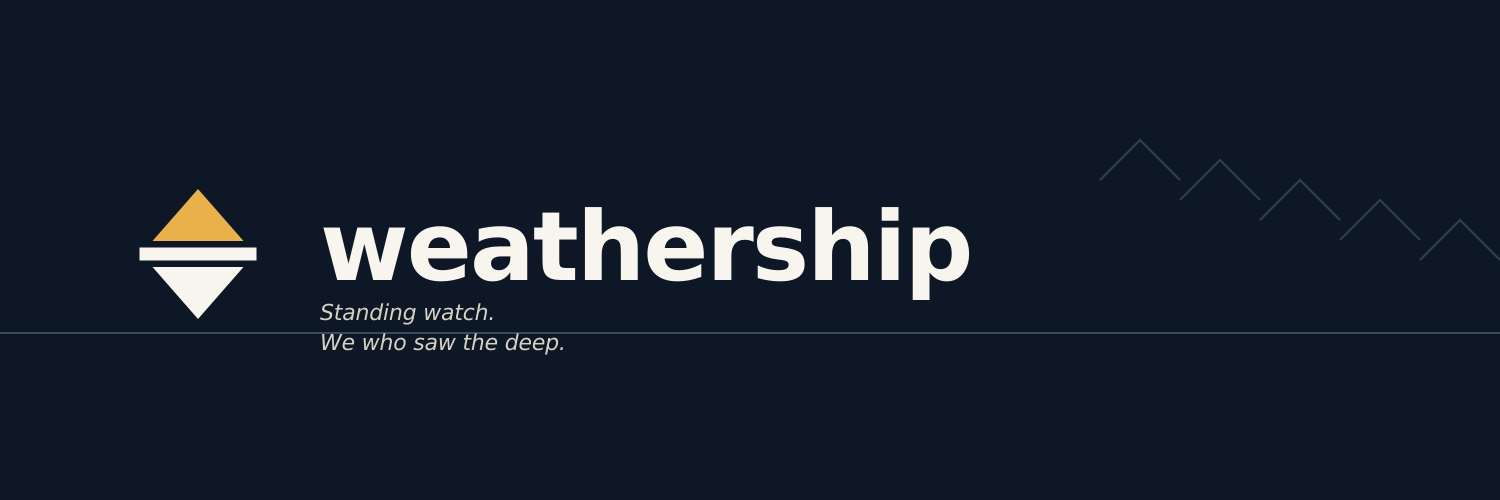
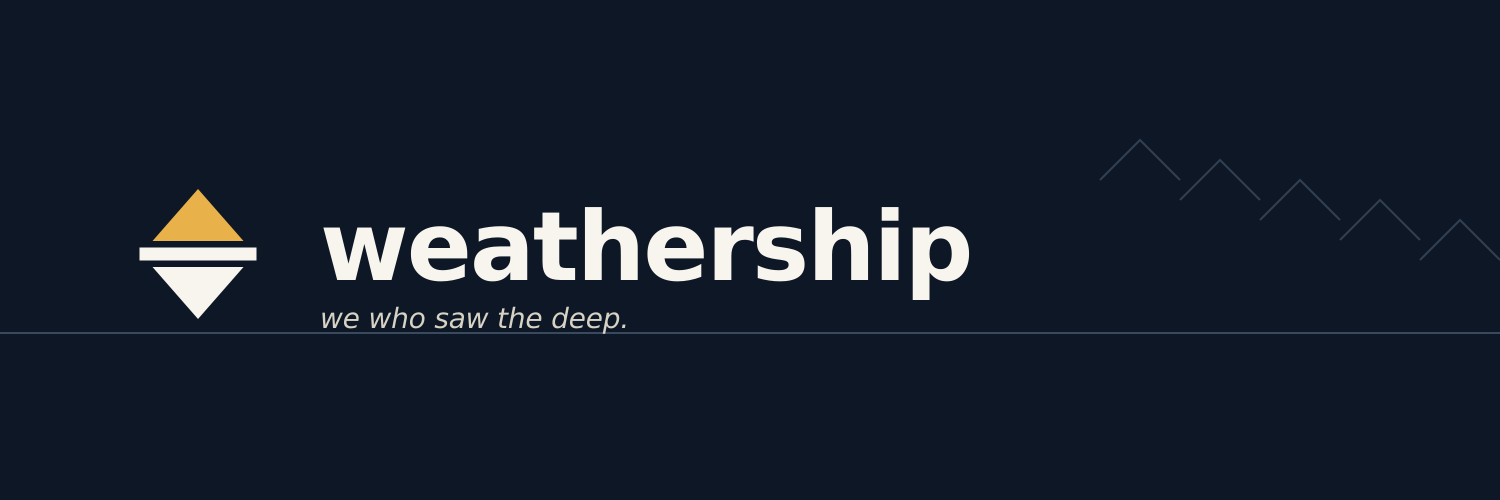
Drop "Standing watch" — single-line tagline "we who saw the deep."
One line is plenty. The single Gilgamesh-rooted line carries the brand
on its own; pairing it with a leading beat ("Standing watch.") was
extra weight that the line already had.

Lowercase form ("we who saw the deep.") matches the wordmark and reads
as a deliberate brand line, not running prose. Updated all canonical
brand surfaces (hero, OG card, Twitter banner, type specimens, about
caption, footer caption, news launch post, identity.md). PNGs
regenerated.

Changed region(s): [[0.2147, 0.6, 0.4293, 0.72]]

diff --git a/brand/identity.md b/brand/identity.md
@@ -15,7 +15,7 @@ station that keeps watch on the way there.
 
 ## Tagline
 
-> Standing watch. We who saw the deep.
+> we who saw the deep.
 
 The line echoes the opening of the Epic of Gilgamesh, which addresses
 its king as *"He who saw the Deep"* — the one who plunged into the
@@ -23,11 +23,11 @@ abyss, read its conditions, and returned with hard-won truth.
 weathership stations itself in the data ocean for the same reason:
 to read what's actually out there, not what's comfortable.
 
-We use the **plural** form. weathership is a collective — many people,
-many crossings, one watch — and the line carries an additional reading
-("our name is legion, for we are many") that fits an open-source crew.
-The singular *"He who saw the deep."* is the literary source we're
-honoring, not the form we use.
+The form is **plural** and **lowercase**. weathership is a collective
+— many people, many crossings — and the lowercase matches the wordmark.
+The line carries a second reading ("our name is legion, for we are
+many") that fits an open-source crew. The singular *"He who saw the
+deep."* is the literary source we're honoring, not the form we use.
 
 ## Mission
 

diff --git a/web/src/data/news/hello-weathership.md b/web/src/data/news/hello-weathership.md
@@ -27,4 +27,4 @@ If you want to know what's coming next, the [projects page](/projects/)
 is the canonical list. If you want the mark, palette, and
 publication-ready assets, the [media kit](/media-kit/) has them.
 
-Standing watch. We who saw the deep.
+we who saw the deep.
